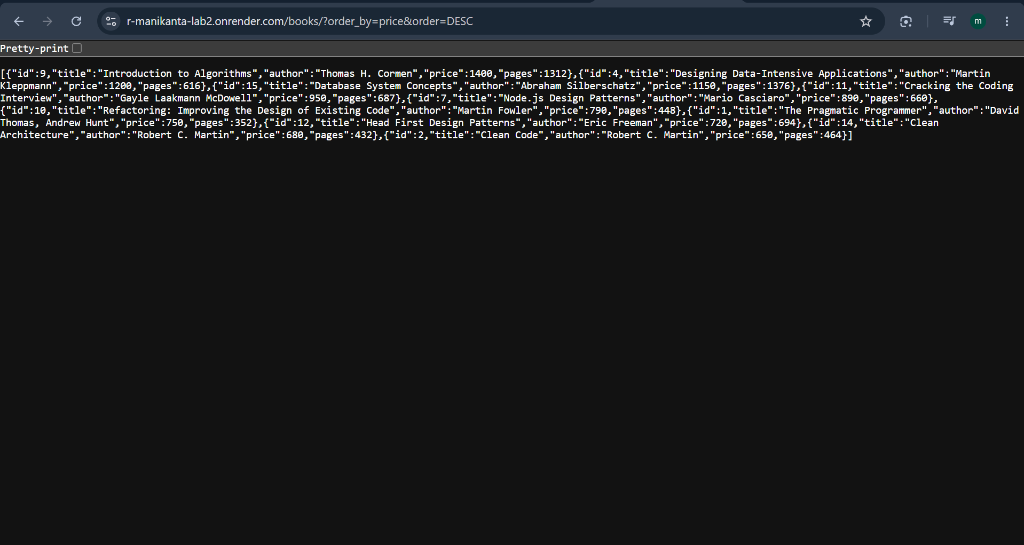
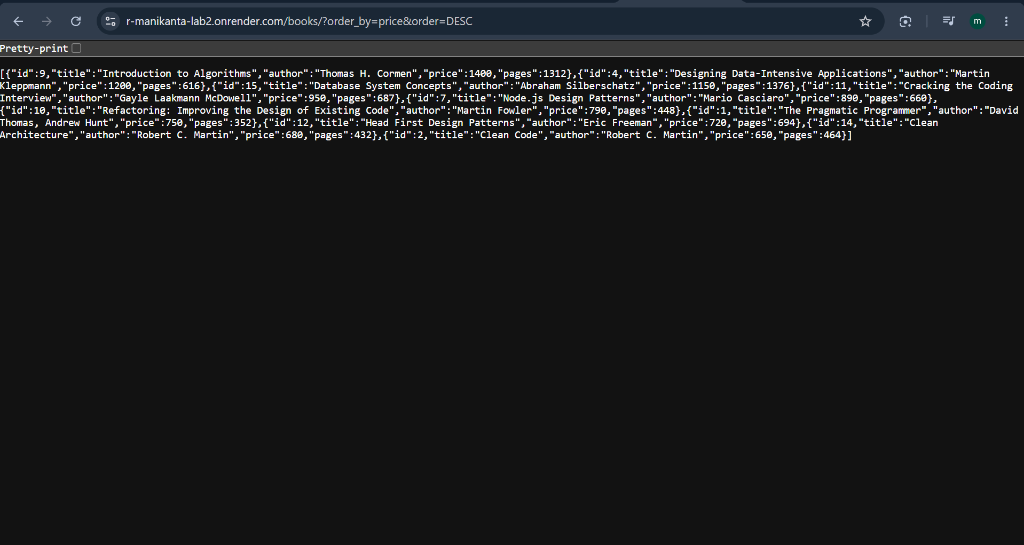
Update lab-03 README and screenshots for Section 3 (Sorting) and Section 4 (Pagination)

Changed region(s): [[0.0, 0.1248, 1.0, 0.2495], [0.125, 0.0312, 0.4688, 0.0624], [0.0, 0.0624, 0.0625, 0.0936]]

diff --git a/lab-03/README.md b/lab-03/README.md
@@ -213,6 +213,49 @@ All query parameters are optional and have built-in default values. They can be 
 ]
 ```
 
+### GET /books/?order_by=price&order=DESC (Sorted by Price Descending)
+```json
+[
+  { "id": 9, "title": "Introduction to Algorithms", "author": "Thomas H. Cormen", "price": 1400, "pages": 1312 },
+  { "id": 4, "title": "Designing Data-Intensive Applications", "author": "Martin Kleppmann", "price": 1200, "pages": 616 },
+  { "id": 15, "title": "Database System Concepts", "author": "Abraham Silberschatz", "price": 1150, "pages": 1376 },
+  { "id": 11, "title": "Cracking the Coding Interview", "author": "Gayle Laakmann McDowell", "price": 950, "pages": 687 },
+  { "id": 7, "title": "Node.js Design Patterns", "author": "Mario Casciaro", "price": 890, "pages": 660 },
+  { "id": 10, "title": "Refactoring: Improving the Design of Existing Code", "author": "Martin Fowler", "price": 790, "pages": 448 },
+  { "id": 1, "title": "The Pragmatic Programmer", "author": "David Thomas, Andrew Hunt", "price": 750, "pages": 352 },
+  { "id": 12, "title": "Head First Design Patterns", "author": "Eric Freeman", "price": 720, "pages": 694 },
+  { "id": 14, "title": "Clean Architecture", "author": "Robert C. Martin", "price": 680, "pages": 432 },
+  { "id": 2, "title": "Clean Code", "author": "Robert C. Martin", "price": 650, "pages": 464 }
+]
+```
+
+### GET /books/?limit=3&offset=3 (Pagination: Page 2 of 3 Books)
+```json
+[
+  {
+    "id": 4,
+    "title": "Designing Data-Intensive Applications",
+    "author": "Martin Kleppmann",
+    "price": 1200,
+    "pages": 616
+  },
+  {
+    "id": 5,
+    "title": "JavaScript: The Good Parts",
+    "author": "Douglas Crockford",
+    "price": 380,
+    "pages": 176
+  },
+  {
+    "id": 6,
+    "title": "Atomic Habits",
+    "author": "James Clear",
+    "price": 450,
+    "pages": 320
+  }
+]
+```
+
 ### GET /books/1/
 ```json
 {
@@ -374,7 +417,7 @@ SELECT id, title FROM book WHERE id = 15;
 - **Render Live URL:** [https://r-manikanta-lab2.onrender.com/books/?order_by=price&order=DESC](https://r-manikanta-lab2.onrender.com/books/?order_by=price&order=DESC)
 - **Expected HTTP Status:** `200 OK`
 
-![Sorting](screenshots/03-sorting.png)
+![Sorting by Price Descending](screenshots/03-sorting.png)
 
 ### 4. Pagination (GET /books/?limit=3&offset=3)
 - **Render Live URL:** [https://r-manikanta-lab2.onrender.com/books/?limit=3&offset=3](https://r-manikanta-lab2.onrender.com/books/?limit=3&offset=3)
